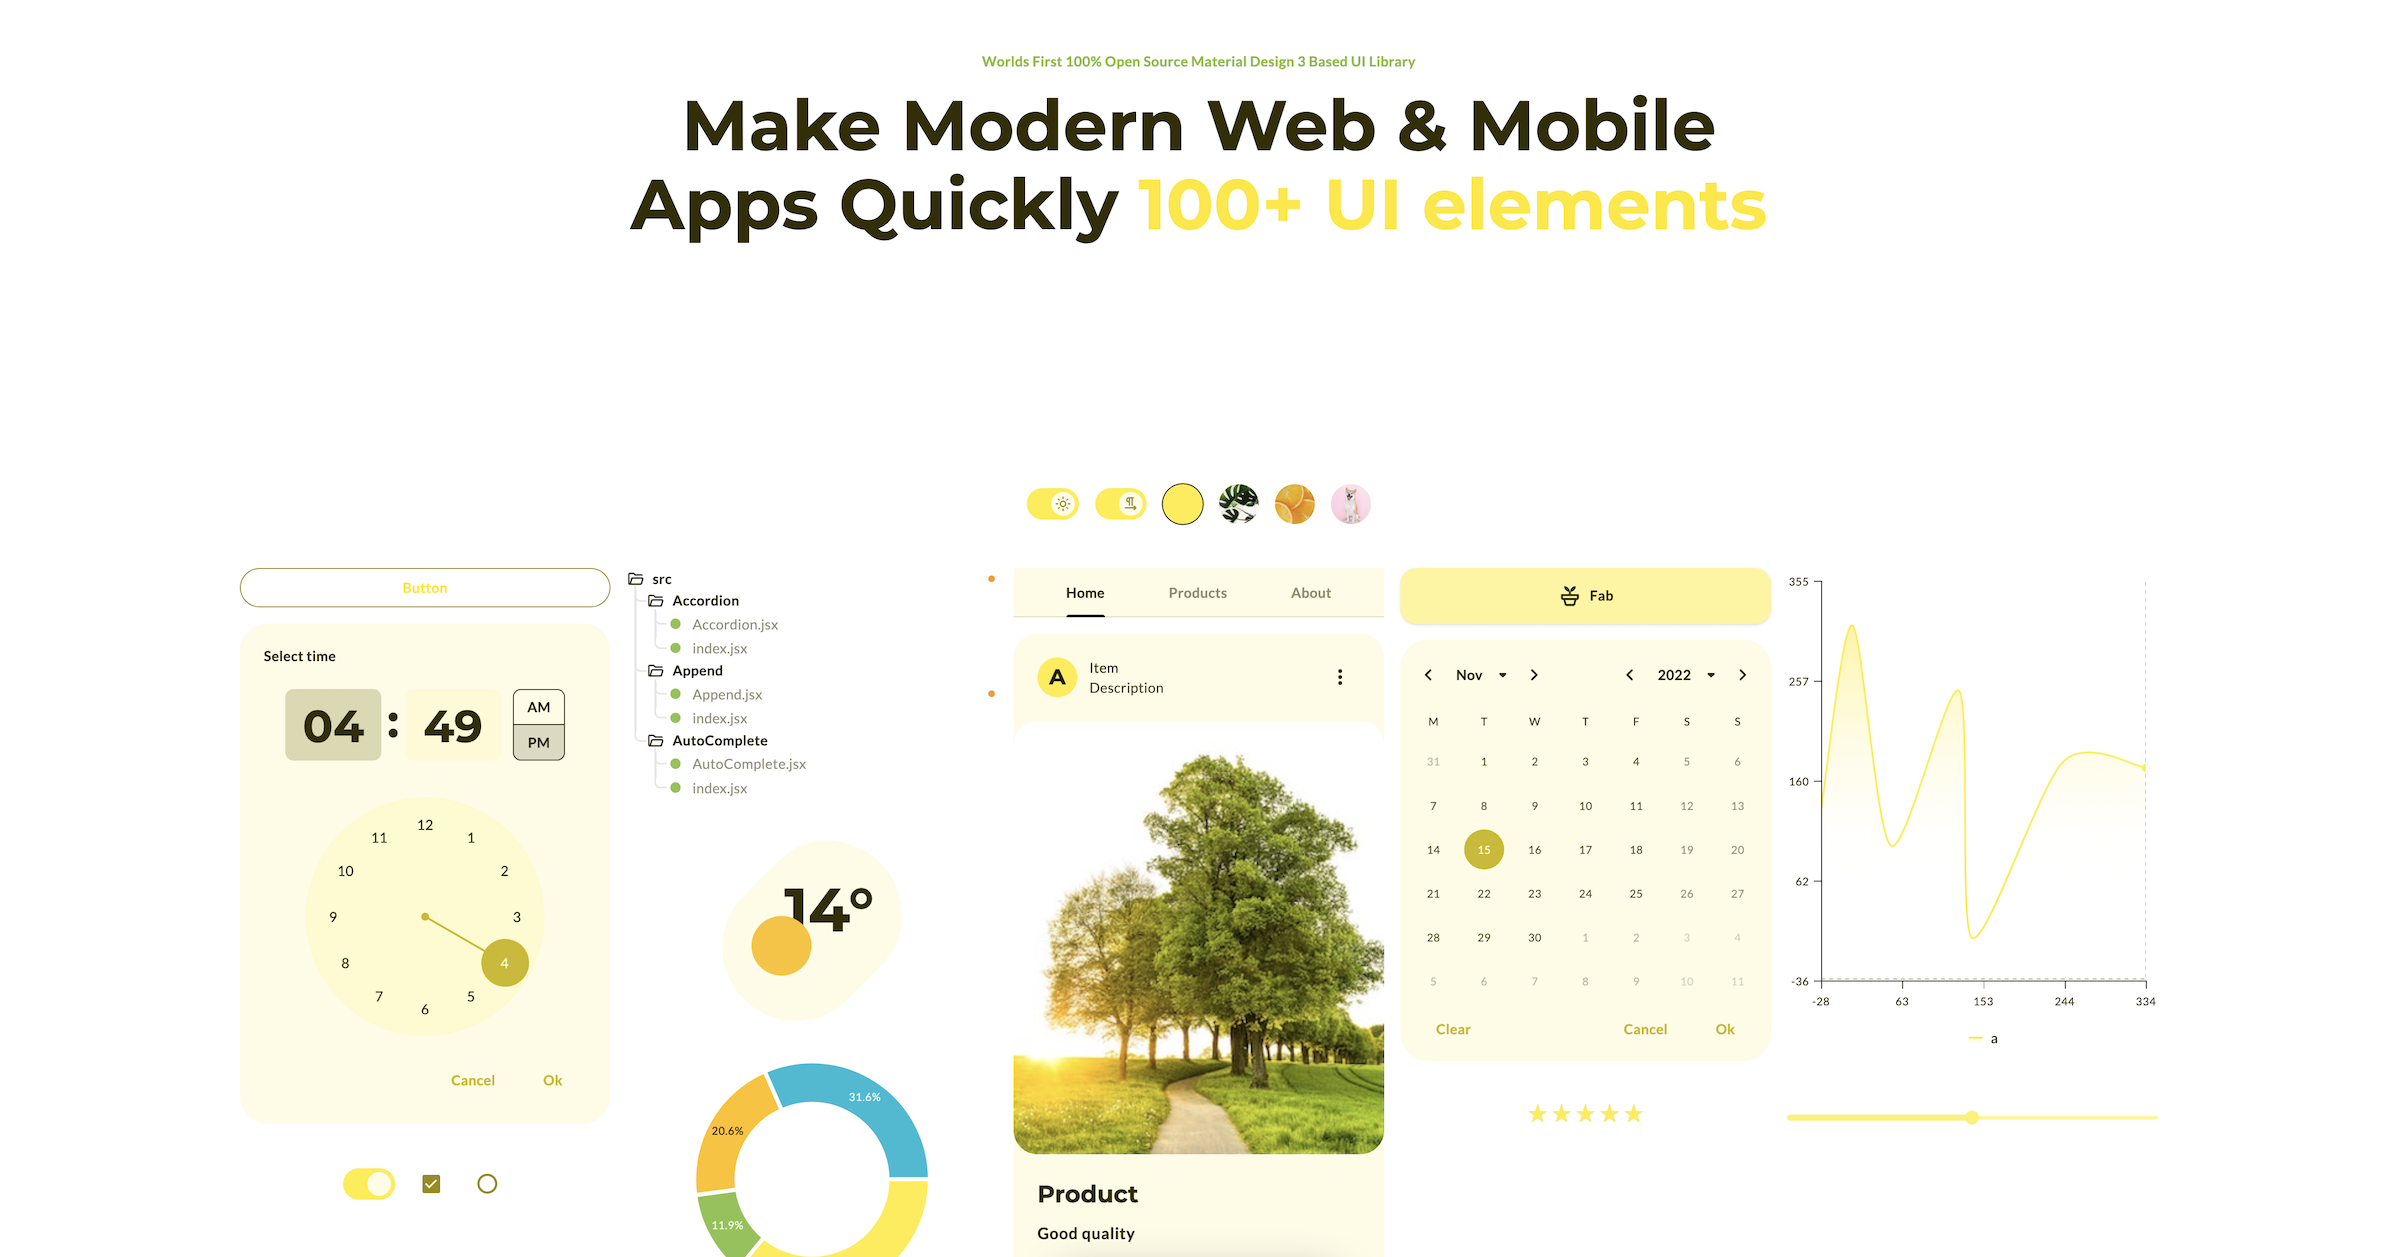
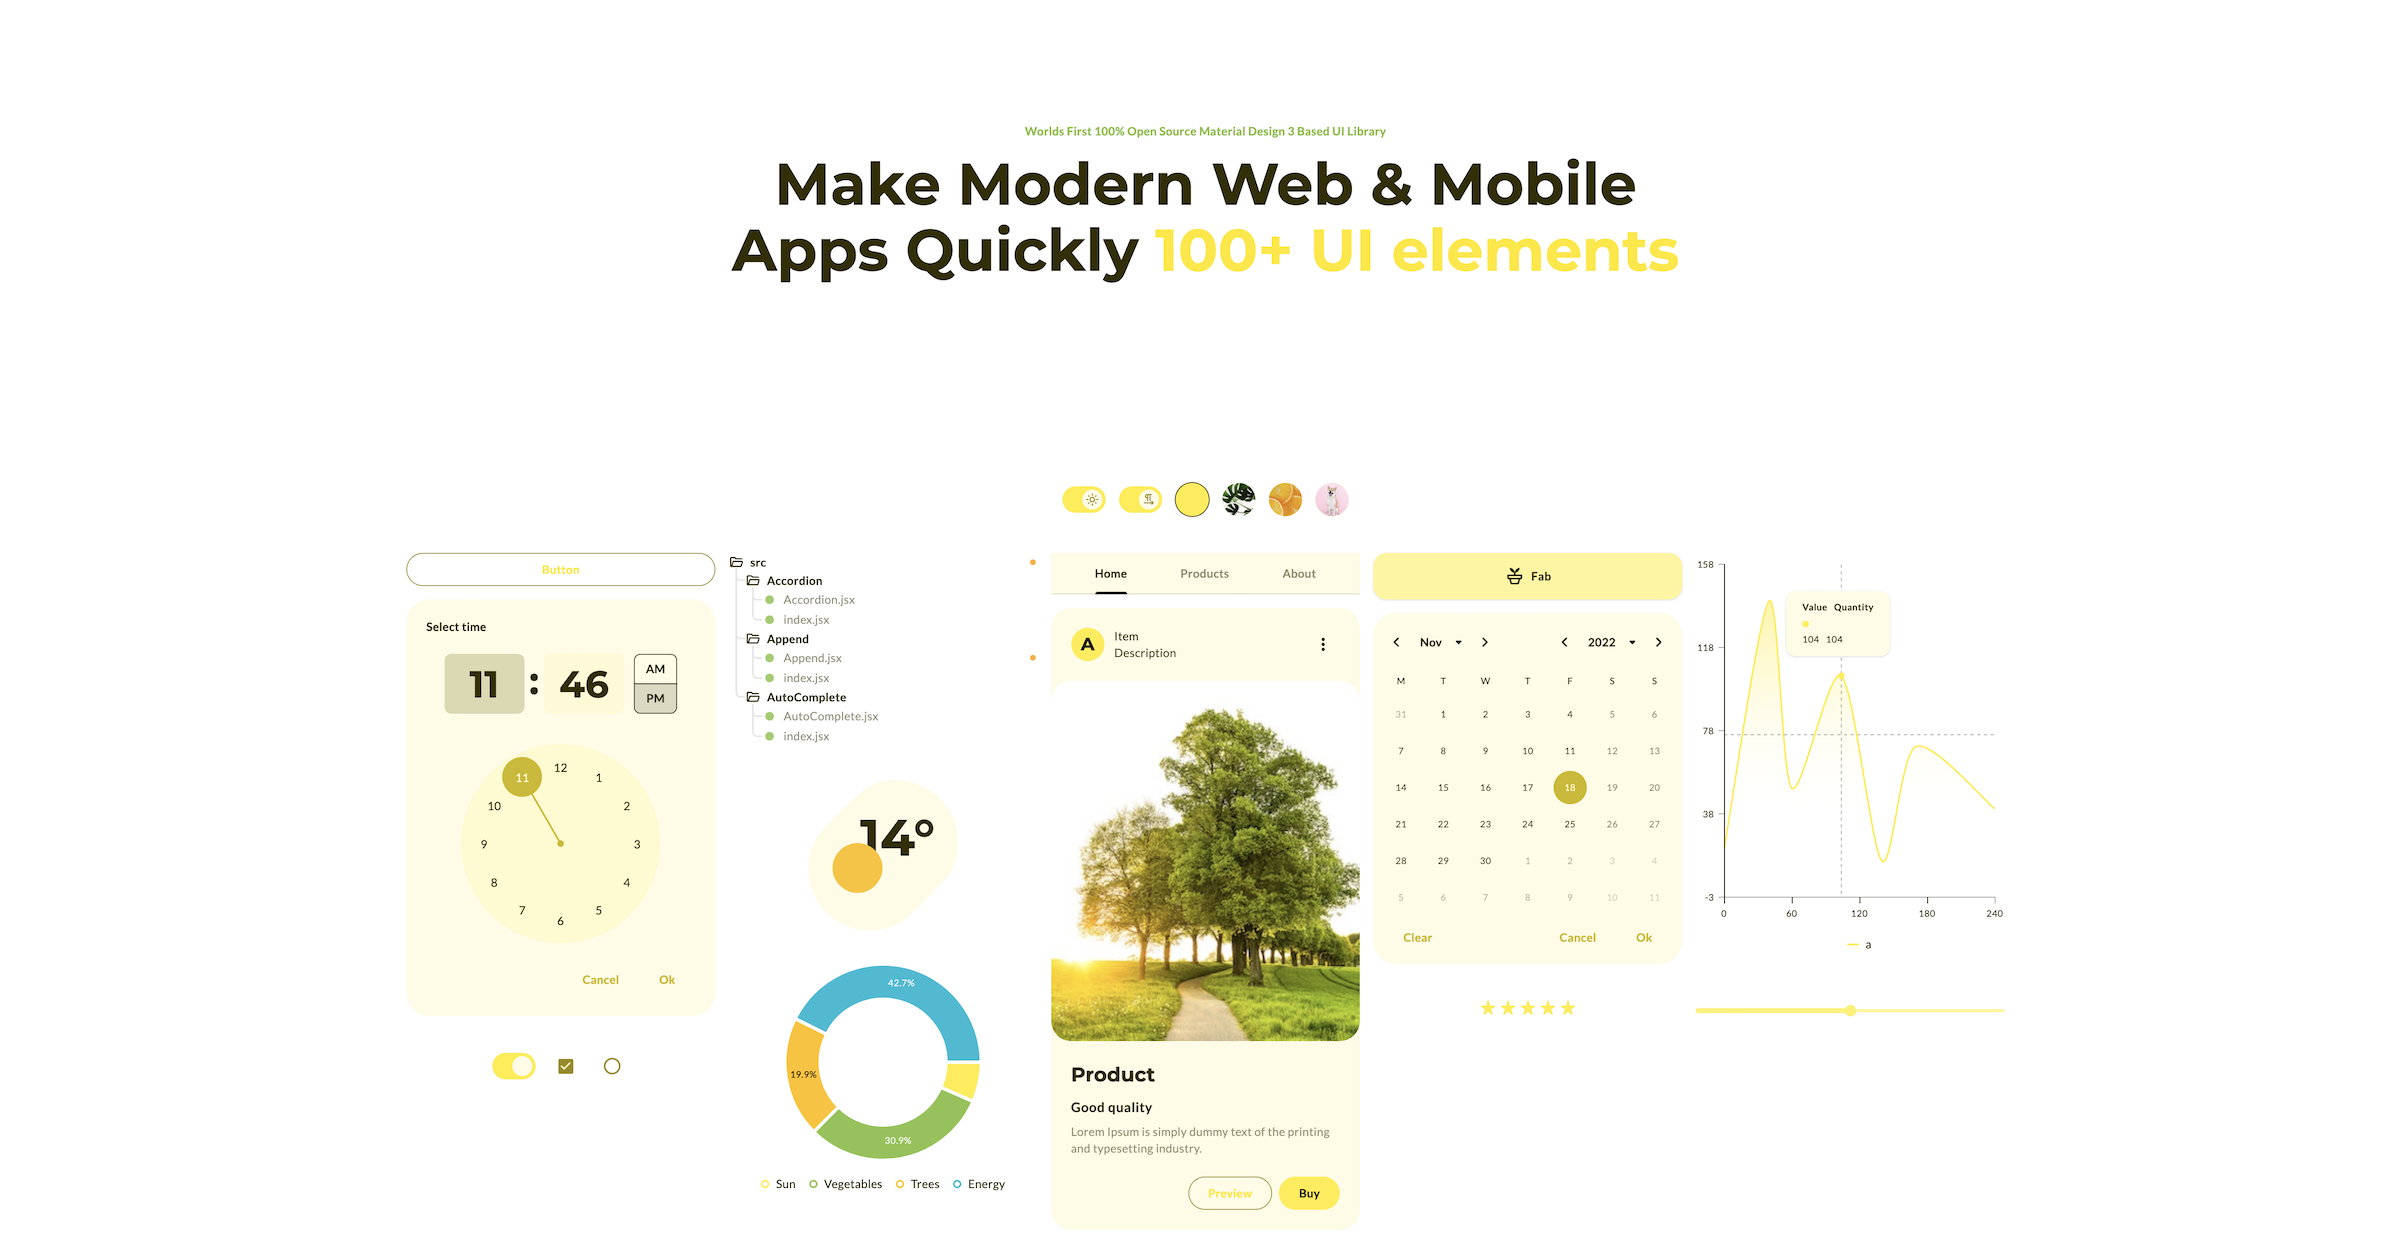
m

diff --git a/packages/amaui-ui-react/src/AreaChart/AreaChart.tsx b/packages/amaui-ui-react/src/AreaChart/AreaChart.tsx
@@ -102,6 +102,8 @@ const AreaChart = React.forwardRef((props_: IAreaChart, ref: any) => {
     linearGradient,
 
     PathProps,
+    BackgroundProps,
+    BorderProps,
     LegendItemProps,
 
     className,
@@ -396,6 +398,19 @@ const AreaChart = React.forwardRef((props_: IAreaChart, ref: any) => {
 
           element: (
             <g>
+              {/* Background */}
+              <Path
+                d={d.background}
+
+                fill={linearGradient ? `url('#areaChart_id_${name}')` : theme.methods.palette.color.colorToRgb(!theme.palette.color[color_] ? color_ : theme.palette.color[color_][tone], 0.14)}
+
+                stroke='none'
+
+                {...PathProps}
+
+                {...BackgroundProps}
+              />
+
               {/* Border */}
               <Path
                 d={d.border}
@@ -407,17 +422,8 @@ const AreaChart = React.forwardRef((props_: IAreaChart, ref: any) => {
                 strokeWidth='2px'
 
                 {...PathProps}
-              />
 
-              {/* Background */}
-              <Path
-                d={d.background}
-
-                fill={linearGradient ? `url('#areaChart_id_${name}')` : theme.methods.palette.color.colorToRgb(!theme.palette.color[color_] ? color_ : theme.palette.color[color_][tone], 0.14)}
-
-                stroke='none'
-
-                {...PathProps}
+                {...BorderProps}
               />
             </g>
           )

diff --git a/docs/src/pages/page.tsx b/docs/src/pages/page.tsx
@@ -157,32 +157,34 @@ export default function Root(props: any) {
 
   const valueArea = React.useMemo(() => Array.from({ length: 7 }).map(() => [random(-40, 400), random(-40, 400)]), []);
 
+  // const valueArea = React.useMemo(() => [[0, 20], [40, 140], [60, 50], [104, 104], [140, 15], [170, 70], [240, 40]], []);
+
   const valueDonut = React.useMemo(() => [
     {
       color: 'primary',
 
-      name: 'a',
+      name: 'Sun',
 
       values: Array.from({ length: 1 }).map(() => random(40, 400))
     },
     {
       color: 'secondary',
 
-      name: 'a1',
+      name: 'Vegetables',
 
       values: Array.from({ length: 1 }).map(() => random(40, 400))
     },
     {
       color: 'tertiary',
 
-      name: 'a14',
+      name: 'Trees',
 
       values: Array.from({ length: 1 }).map(() => random(40, 400))
     },
     {
       color: 'quaternary',
 
-      name: 'a114',
+      name: 'Energy',
 
       values: Array.from({ length: 1 }).map(() => random(40, 400))
     }
